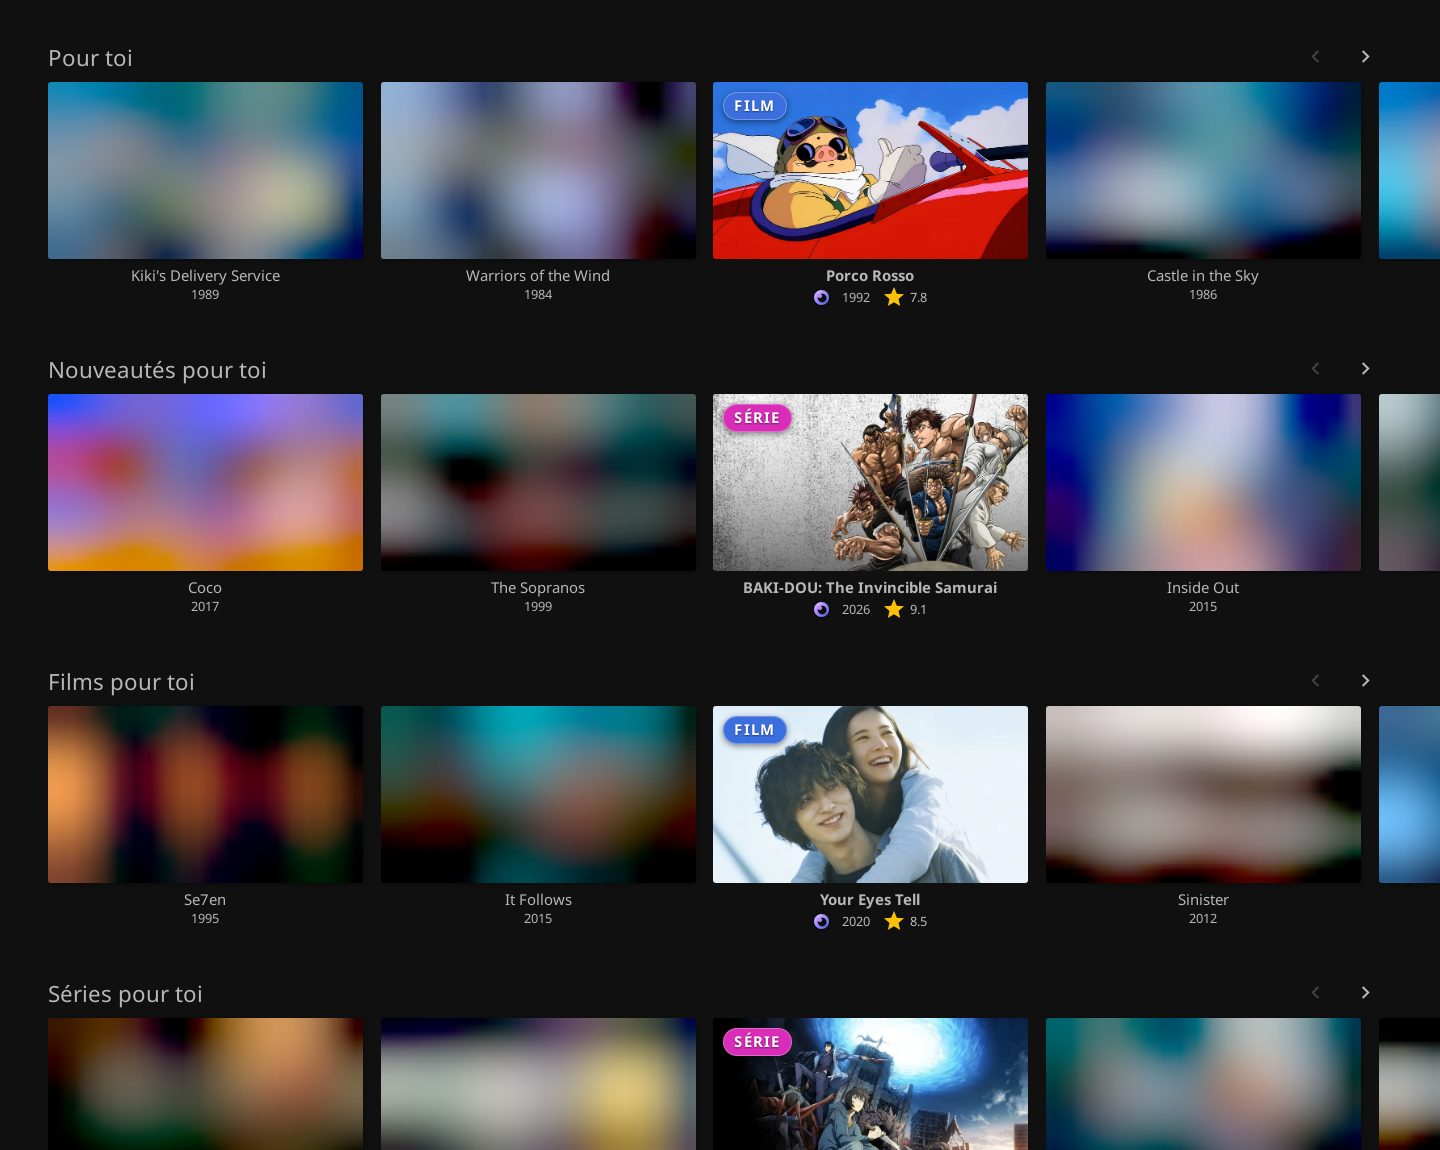
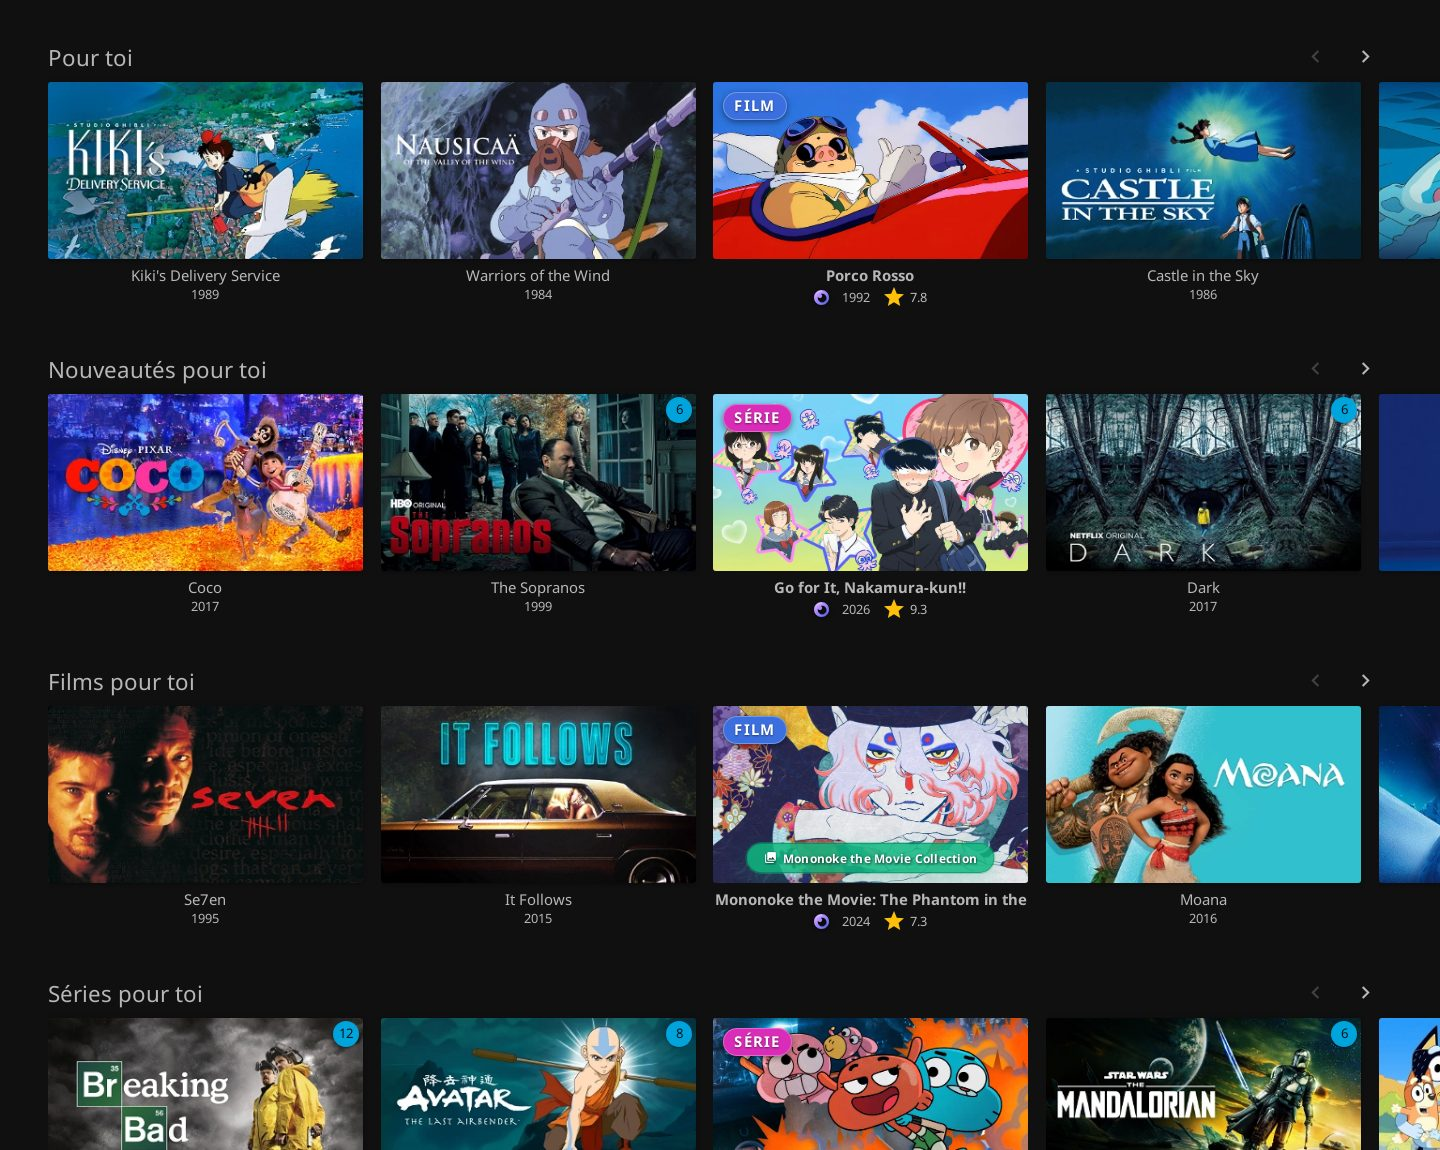
Screenshots: restore the sharp French home screen; retry poster loading until none is left blurred and never write a blurred home capture
The French capture logged 23/23 posters loaded yet came out blurred: the rows were redrawn afterwards.

diff --git a/tests/integration/shots.py b/tests/integration/shots.py
@@ -70,8 +70,10 @@ def take(url: str, server_id: str, admin: tuple, account: tuple, lang: str, out,
         }""")
         # Jellyfin montre un aperçu flou (blurhash) tant qu'une affiche n'est pas chargée, et son chargeur paresseux ne
         # se déclenche pas dans ce navigateur sans écran (constaté : 23 affiches jamais demandées en 60 s). La capture les
-        # charge donc elle-même, comme le chargeur : image téléchargée, posée en fond, aperçu flou masqué (au plus 30 s)
-        loaded = page.evaluate("""() => new Promise(done => {
+        # charge donc elle-même, comme le chargeur : image téléchargée, posée en fond, aperçu flou masqué. Les rangées
+        # peuvent être redessinées après coup (constaté en français : 23/23 chargées puis capture floue) : on recommence
+        # jusqu'à ce qu'aucune affiche visible ne reste en attente, et on vérifie juste avant la capture.
+        load = """() => new Promise(done => {
           const cards = [...document.querySelectorAll('[data-src]')]
             .filter(e => { const r = e.getBoundingClientRect(); return r.bottom > 0 && r.top < window.innerHeight && r.width > 0; });
           let ok = 0, bad = 0;
@@ -81,7 +83,7 @@ def take(url: str, server_id: str, admin: tuple, account: tuple, lang: str, out,
               e.style.backgroundImage = "url('" + url + "')";
               e.removeAttribute('data-src');
               e.classList.remove('lazy-hidden');
-              const c = e.querySelector('.blurhash-canvas'); if (c) { c.style.display = 'none'; }
+              (e.parentElement || e).querySelectorAll('.blurhash-canvas').forEach(c => { c.style.display = 'none'; });
               ok++; res();
             };
             img.onerror = () => { bad++; res(); };
@@ -89,9 +91,27 @@ def take(url: str, server_id: str, admin: tuple, account: tuple, lang: str, out,
           });
           const t = setTimeout(() => done({ ok, bad, total: cards.length }), 30000);
           Promise.all(cards.map(one)).then(() => { clearTimeout(t); done({ ok, bad, total: cards.length }); });
-        })""")
-        time.sleep(1)
-        log(f"accueil ({lang}) : affiches chargées {loaded['ok']}/{loaded['total']}, en échec {loaded['bad']}")
+        })"""
+        pending = """() => {
+          const vis = e => { const r = e.getBoundingClientRect(); return r.bottom > 0 && r.top < window.innerHeight && r.width > 0
+            && getComputedStyle(e).display !== 'none'; };
+          return [...document.querySelectorAll('[data-src], .lazy-hidden')].filter(vis).length;
+        }"""
+        left = -1
+        for attempt in range(6):
+            loaded = page.evaluate(load)
+            time.sleep(2)
+            left = page.evaluate(pending)
+            log(f"accueil ({lang}) : passe {attempt + 1}, affiches chargées {loaded['ok']}/{loaded['total']}, "
+                f"en échec {loaded['bad']}, encore floues {left}")
+            if left == 0:
+                break
+        if left != 0:
+            # pas d'image floue : l'ancienne capture reste en place
+            log(f"accueil ({lang}) : {left} affiche(s) encore floue(s), capture abandonnée")
+            page.screenshot(path=str(out / f"echec-home-{lang}.jpg"), type="jpeg", quality=70)
+            b.close()
+            raise RuntimeError(f"home-{lang}: posters still blurred")
         name = f"home-{lang}.jpg"
         page.screenshot(path=str(out / name), type="jpeg", quality=82, full_page=True,
                         clip={"x": 0, "y": max(0, top - 24), "width": 1440, "height": 1150})
